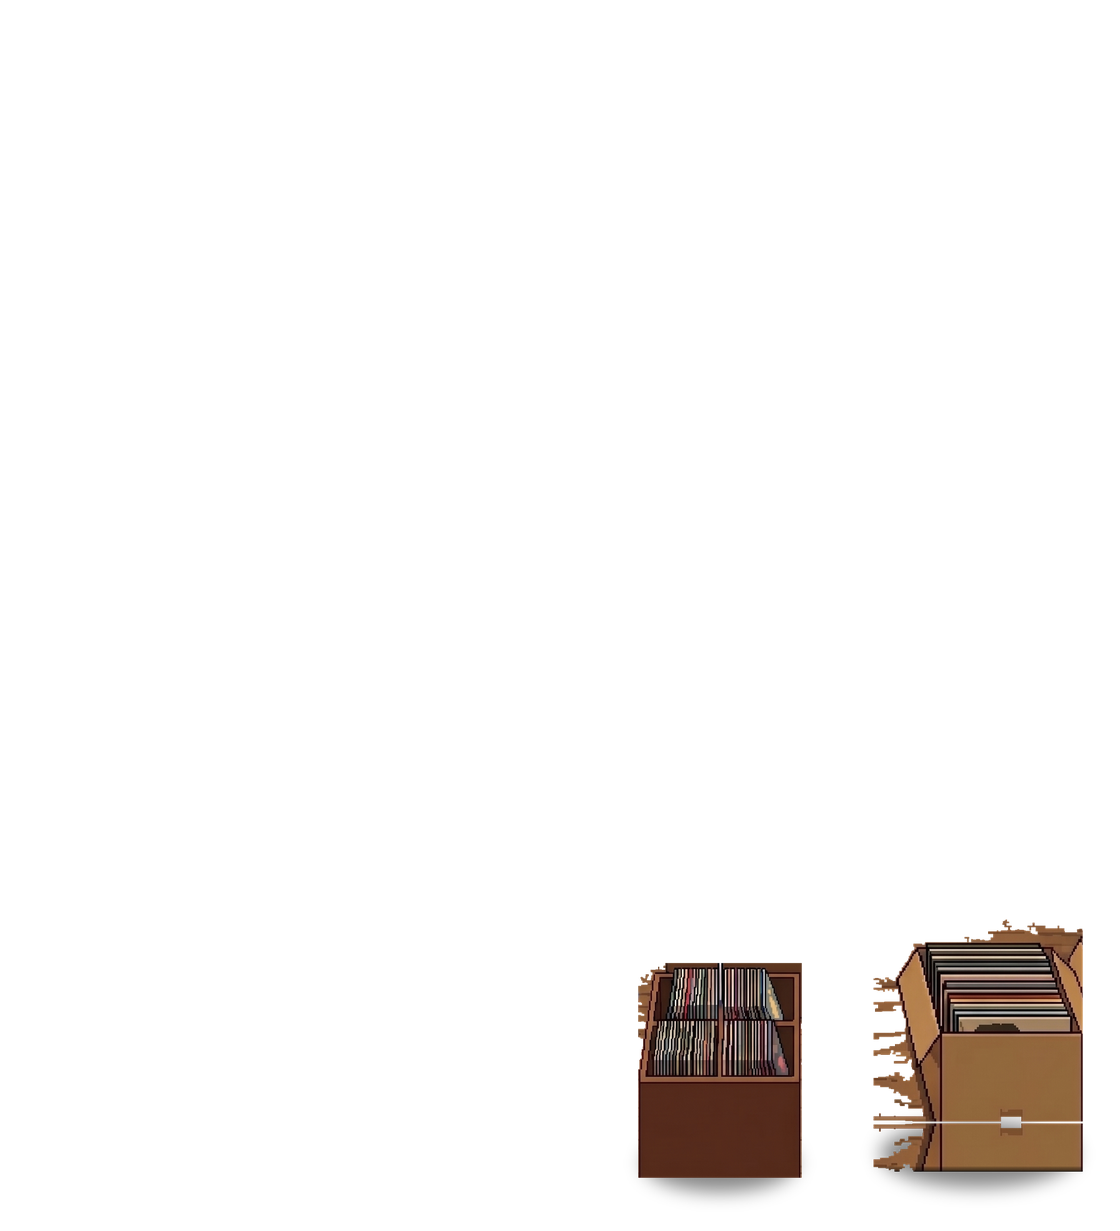
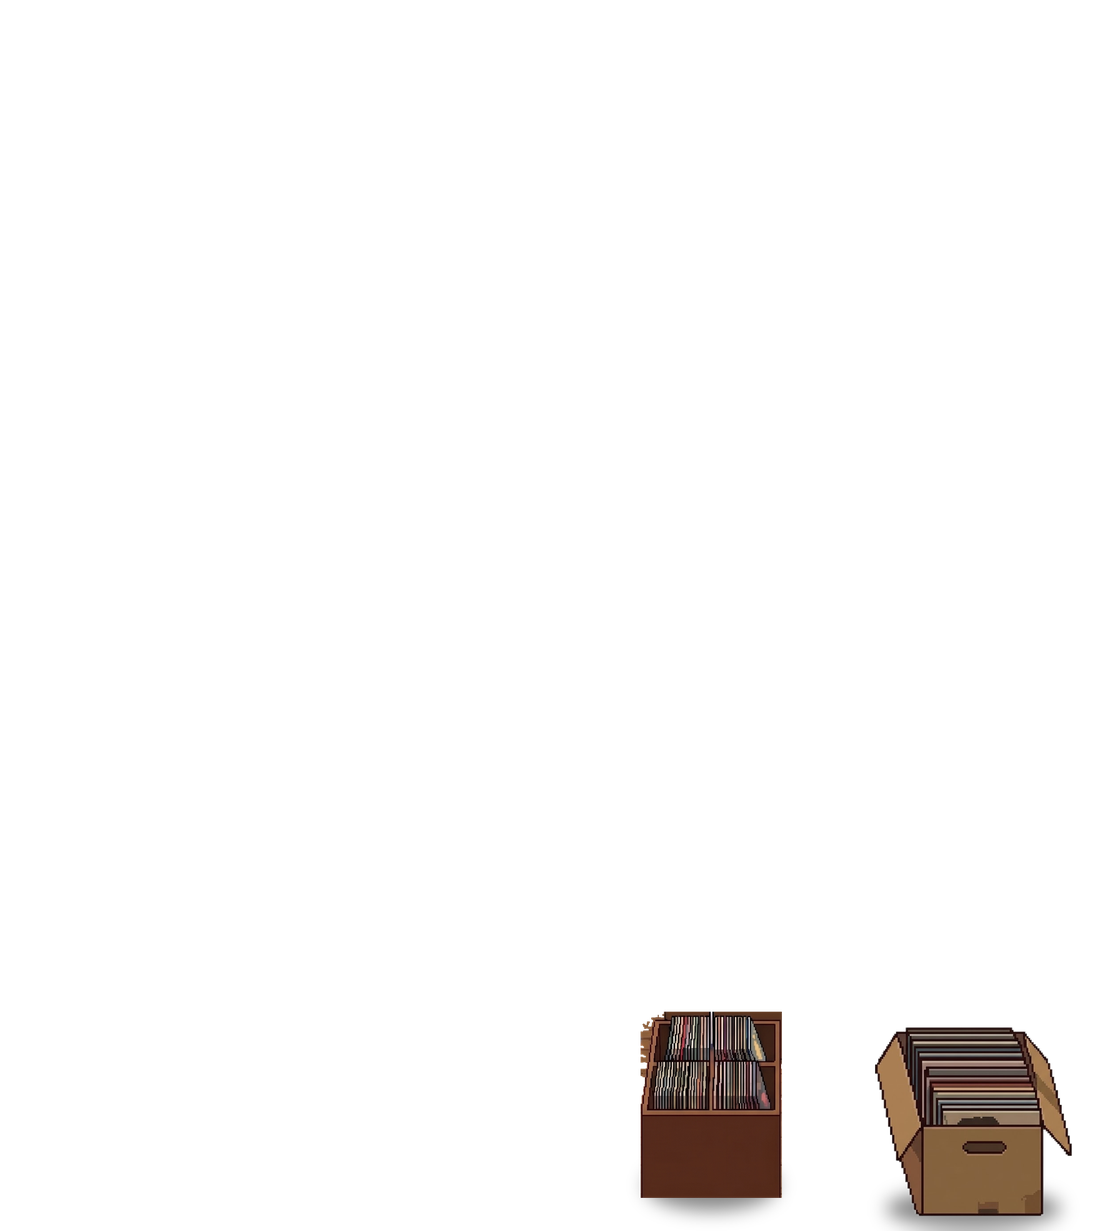
紙箱改用店主另外畫的完整素材（PROPS 機制）
參考圖裡的紙箱下緣被原圖切掉、沒有底，怎麼補都不對。店主另外產了一張
白底的完整紙箱像素圖，改用那個。

- 新增 PROPS 機制：已去背的完整 PNG 直接貼進前景層，與描圖來的 PIECES 分開
- 白底去背切出 art/props/box-a.png 與 box-b.png（目前用 a，b 備用）
- 右前的挖寶櫃與紙箱上緣壓到 y≈405 以下，讓出唱片區前面的走道，
  老闆去翻找時才不會被前景前層整個擋住
- 翻找站位腳底一律 ≥404（zOf 門檻是 402，設 392 會掉到最底層只露出兩隻鞋）

Claude-Session: https://claude.ai/code/session_019QrQGEkqCT46LjRfRKh6Qz

Changed region(s): [[0.7812, 0.7409, 0.9688, 1.0], [0.5625, 0.7717, 0.7188, 0.9878]]

diff --git a/stage-preview.html b/stage-preview.html
@@ -115,9 +115,11 @@
         atdoor:[128,420] },   // 在門口撞見男子（跟男子拉開，中間留給老闆）
     o:{ counter:[174,325],    // 櫃檯後面（腳底貼著牆，被檯面擋到胸口）
         aisle:[72,345],       // 繞出櫃檯左端
-        dig1:[318,410],       // 右邊唱片區：翻找（腳底 402–458 → 櫃檯前、挖寶櫃後）
-        dig2:[372,404],
-        dig3:[340,414],
+        // 右邊唱片區翻找。前景前層（挖寶櫃／紙箱）上緣壓到 y≈405 以下，
+        // 所以腳底 ≤404 站在這一帶都不會被擋住。
+        dig1:[316,408],       // 腳底一定要 ≥402，否則會掉到前景後層之後、整個被櫃子擋住
+        dig2:[382,406],
+        dig3:[346,412],
         back:[150,424],       // 拿著四張走回櫃檯
         between:[85,452] },   // 站到兩人中間緩頰（腳底最前面 → 蓋在兩人上面）
     f:{ outside:[42,336], door:[42,344], in:[42,396] },

diff --git a/scripts/trace-shop-art.py b/scripts/trace-shop-art.py
@@ -78,7 +78,7 @@ TILE_FILL = {'counter': (1156, 1320, 462, 1162, 650, 748)}  # (y0,y1, 洞x0,洞x
 # 個別調門檻：器材是牆上的深色方塊，門檻低會把牆的細微色差也算進來
 # 參考圖裡兩個紙箱的**底部本來就被原圖下緣切掉**（畫到 y=1970 就沒了），
 # 所以不管挪到哪都會露出一個平口。這裡把箱身往下接長、再壓一條底緣與接地陰影。
-EXTEND = {'box1': 96}                            # piece: 往下補幾列
+EXTEND = {}                                      # piece: 往下補幾列（目前用不到）
 CUT_OPTS = {'gear': dict(wall_thr=150, min_blob=1200),
             'spkL': dict(wall_thr=190, min_blob=1200),
             'spkR': dict(wall_thr=190, min_blob=1200)}
@@ -92,8 +92,9 @@ LAYOUT = {
     'gear':    (805, 1098, 1.0, False),    # 唱盤＋擴大機往右挪 57px
     'spkR':    (1069, 1052, 1.0, False),   # 右喇叭往右挪 53px，貼到檯面右端
     'rbins':   None,                       # 右邊那組貼右牆，不動
-    'crate':   (1020, 1540, 0.60, True),   # 原本擋在左前方 → 縮小挪到中右前，讓出走道
-    'box1':    (1396, 1470, 0.82, True),   # 往右挪；箱底是補出來的，要留空間別再被下緣切到
+    'crate':   (1024, 1618, 0.52, True),   # 縮小挪到中右前「最下面」：上緣要低於 y=405，
+                                           #  老闆到右邊唱片區翻找時才不會整個被擋住
+    'box1':    'drop',                     # 參考圖裡的紙箱沒有底，改用 PROPS 裡另外畫好的
     'box2':    'drop',                     # 兩個紙箱疊在一起太擠，收掉一個
 }
 
@@ -194,6 +195,15 @@ def soft_shadow(img, x, y, w, h):
     img.alpha_composite(sh.filter(ImageFilter.GaussianBlur(14)))
 
 
+# ── 外掛道具：不是從參考圖描出來的，是店主另外產、已經去背的完整物件 ──────
+#   （參考圖裡的紙箱下緣被原圖切掉、沒有底，補出來的總是不對；改用畫好的整個箱子）
+#   name: (檔案, 目的地左上角 x, y, 縮放, 疊在哪一層, 要不要影子)   ── 全部原圖座標
+PROPS = {
+    # 上緣同樣要低於 y≈410（邏輯），否則會擋住在右邊唱片區前面翻找的老闆
+    'boxA': ('art/props/box-a.png', 1400, 1644, 0.71, 'front', True),
+}
+
+
 # 前景要分兩層，小人才能「站在櫃檯前面、但在挖寶櫃後面」
 FG_BACK  = ['counter', 'rbins', 'spkL', 'gear', 'spkR']   # 下緣在 y=400 以上
 FG_FRONT = ['crate', 'box1', 'box2']       # 下緣在 y=402 以下
@@ -223,6 +233,18 @@ def main():
         if shadow:
             soft_shadow(fg, dx + pw * .04, dy + ph * .80, pw * .92, ph * .26)
         fg.alpha_composite(piece, (dx, dy))
+
+    for name, (path, dx, dy, sc, layer, shadow) in PROPS.items():   # 外掛道具
+        prop = Image.open(os.path.join(ROOT, path)).convert('RGBA')
+        pw, ph = int(prop.width * sc), int(prop.height * sc)
+        prop = prop.resize((pw, ph), Image.LANCZOS)
+        if dy + ph > H:
+            print(f'  ⚠ {name} 會超出畫布下緣 {dy + ph - H}px')
+        if shadow:
+            soft_shadow(layers[layer], dx + pw * .06, dy + ph * .86, pw * .88, ph * .20)
+        layers[layer].alpha_composite(prop, (dx, dy))
+        print(f'  道具 {name}: {pw}×{ph} @ ({dx},{dy}) → 邏輯 x {dx//SCALE}–{(dx+pw)//SCALE}'
+              f'、y {dy//SCALE}–{(dy+ph)//SCALE}')
 
     # ── 門板三格：全開（原樣）／半開／關（往右拉寬填滿門洞）──
     panel = cut(ref, empty, PANEL, wall_thr=40, min_blob=800)

diff --git a/PROJECT_MEMORY.md b/PROJECT_MEMORY.md
@@ -1,5 +1,28 @@
 # dip vinyl 專案備忘錄
 
+### 2026-09-08｜dip-vinyl-shop｜紙箱改用店主另外畫的完整素材（PROPS 機制）＋右前家具下移讓出走道
+
+店主另外產了一張「兩個裝滿唱片的紙箱、白底」的像素圖，說「類似這樣才對」。
+參考圖裡的紙箱下緣被原圖切掉、沒有底，怎麼補都不對；改用畫好的整個箱子。
+
+**1. `PROPS` 機制（新）。** 除了從參考圖描出來的 `PIECES`，新增一類**外掛道具**：
+已經去背的完整 PNG，直接貼進前景層。白底去背用 `min(RGB) < 232` ＋ closing ＋ fill holes
+＋ 取最大的兩塊連通區域（JPEG 邊緣有雜訊，門檻要放寬再清雜點），
+切出 `art/props/box-a.png`（444×426）與 `box-b.png`（434×463）。
+目前用 box-a，box-b 留著備用。`EXTEND`（補箱底）與描圖來的 `box1` 一起退役。
+
+**2. 右前家具全部下移。** 老闆要到右邊唱片區翻找，但挖寶櫃（上緣 y=385）與紙箱（387）
+把那一帶佔滿，人站進去整個被前景前層擋住。把兩者上緣都壓到 **y≈405 以下**
+（挖寶櫃 `(1024,1618,0.52)`、紙箱 `(1400,1644,0.71)`），唱片區前面就空出走道。
+
+**3. 站位有個容易踩的陷阱**：`zOf()` 的門檻是 **腳底 y ≥ 402** 才會排到前景後層之前。
+我一度把翻找站位設成 y=392，人就掉到最底層、被右邊挖寶櫃整個蓋住（只露出兩隻鞋）。
+**翻找站位一律 ≥404**：`dig1 [316,408]`、`dig2 [382,406]`、`dig3 [346,412]`。
+
+- 主要檔案：`scripts/trace-shop-art.py`（PROPS）、`art/props/box-a.png`＋`box-b.png`（新增）、
+  `art/shop2-fg-front.png`、`stage-preview.html`
+- 驗證：截圖確認老闆在右邊唱片區前完整可見、紙箱四邊完整有底、三人同框區不受影響。
+
 ### 2026-09-08｜dip-vinyl-shop｜紙箱補底：參考圖裡的紙箱本來就沒有底
 
 店主：「紙箱還是切到」。上一次只是把紙箱往上挪，結果**更明顯**——
